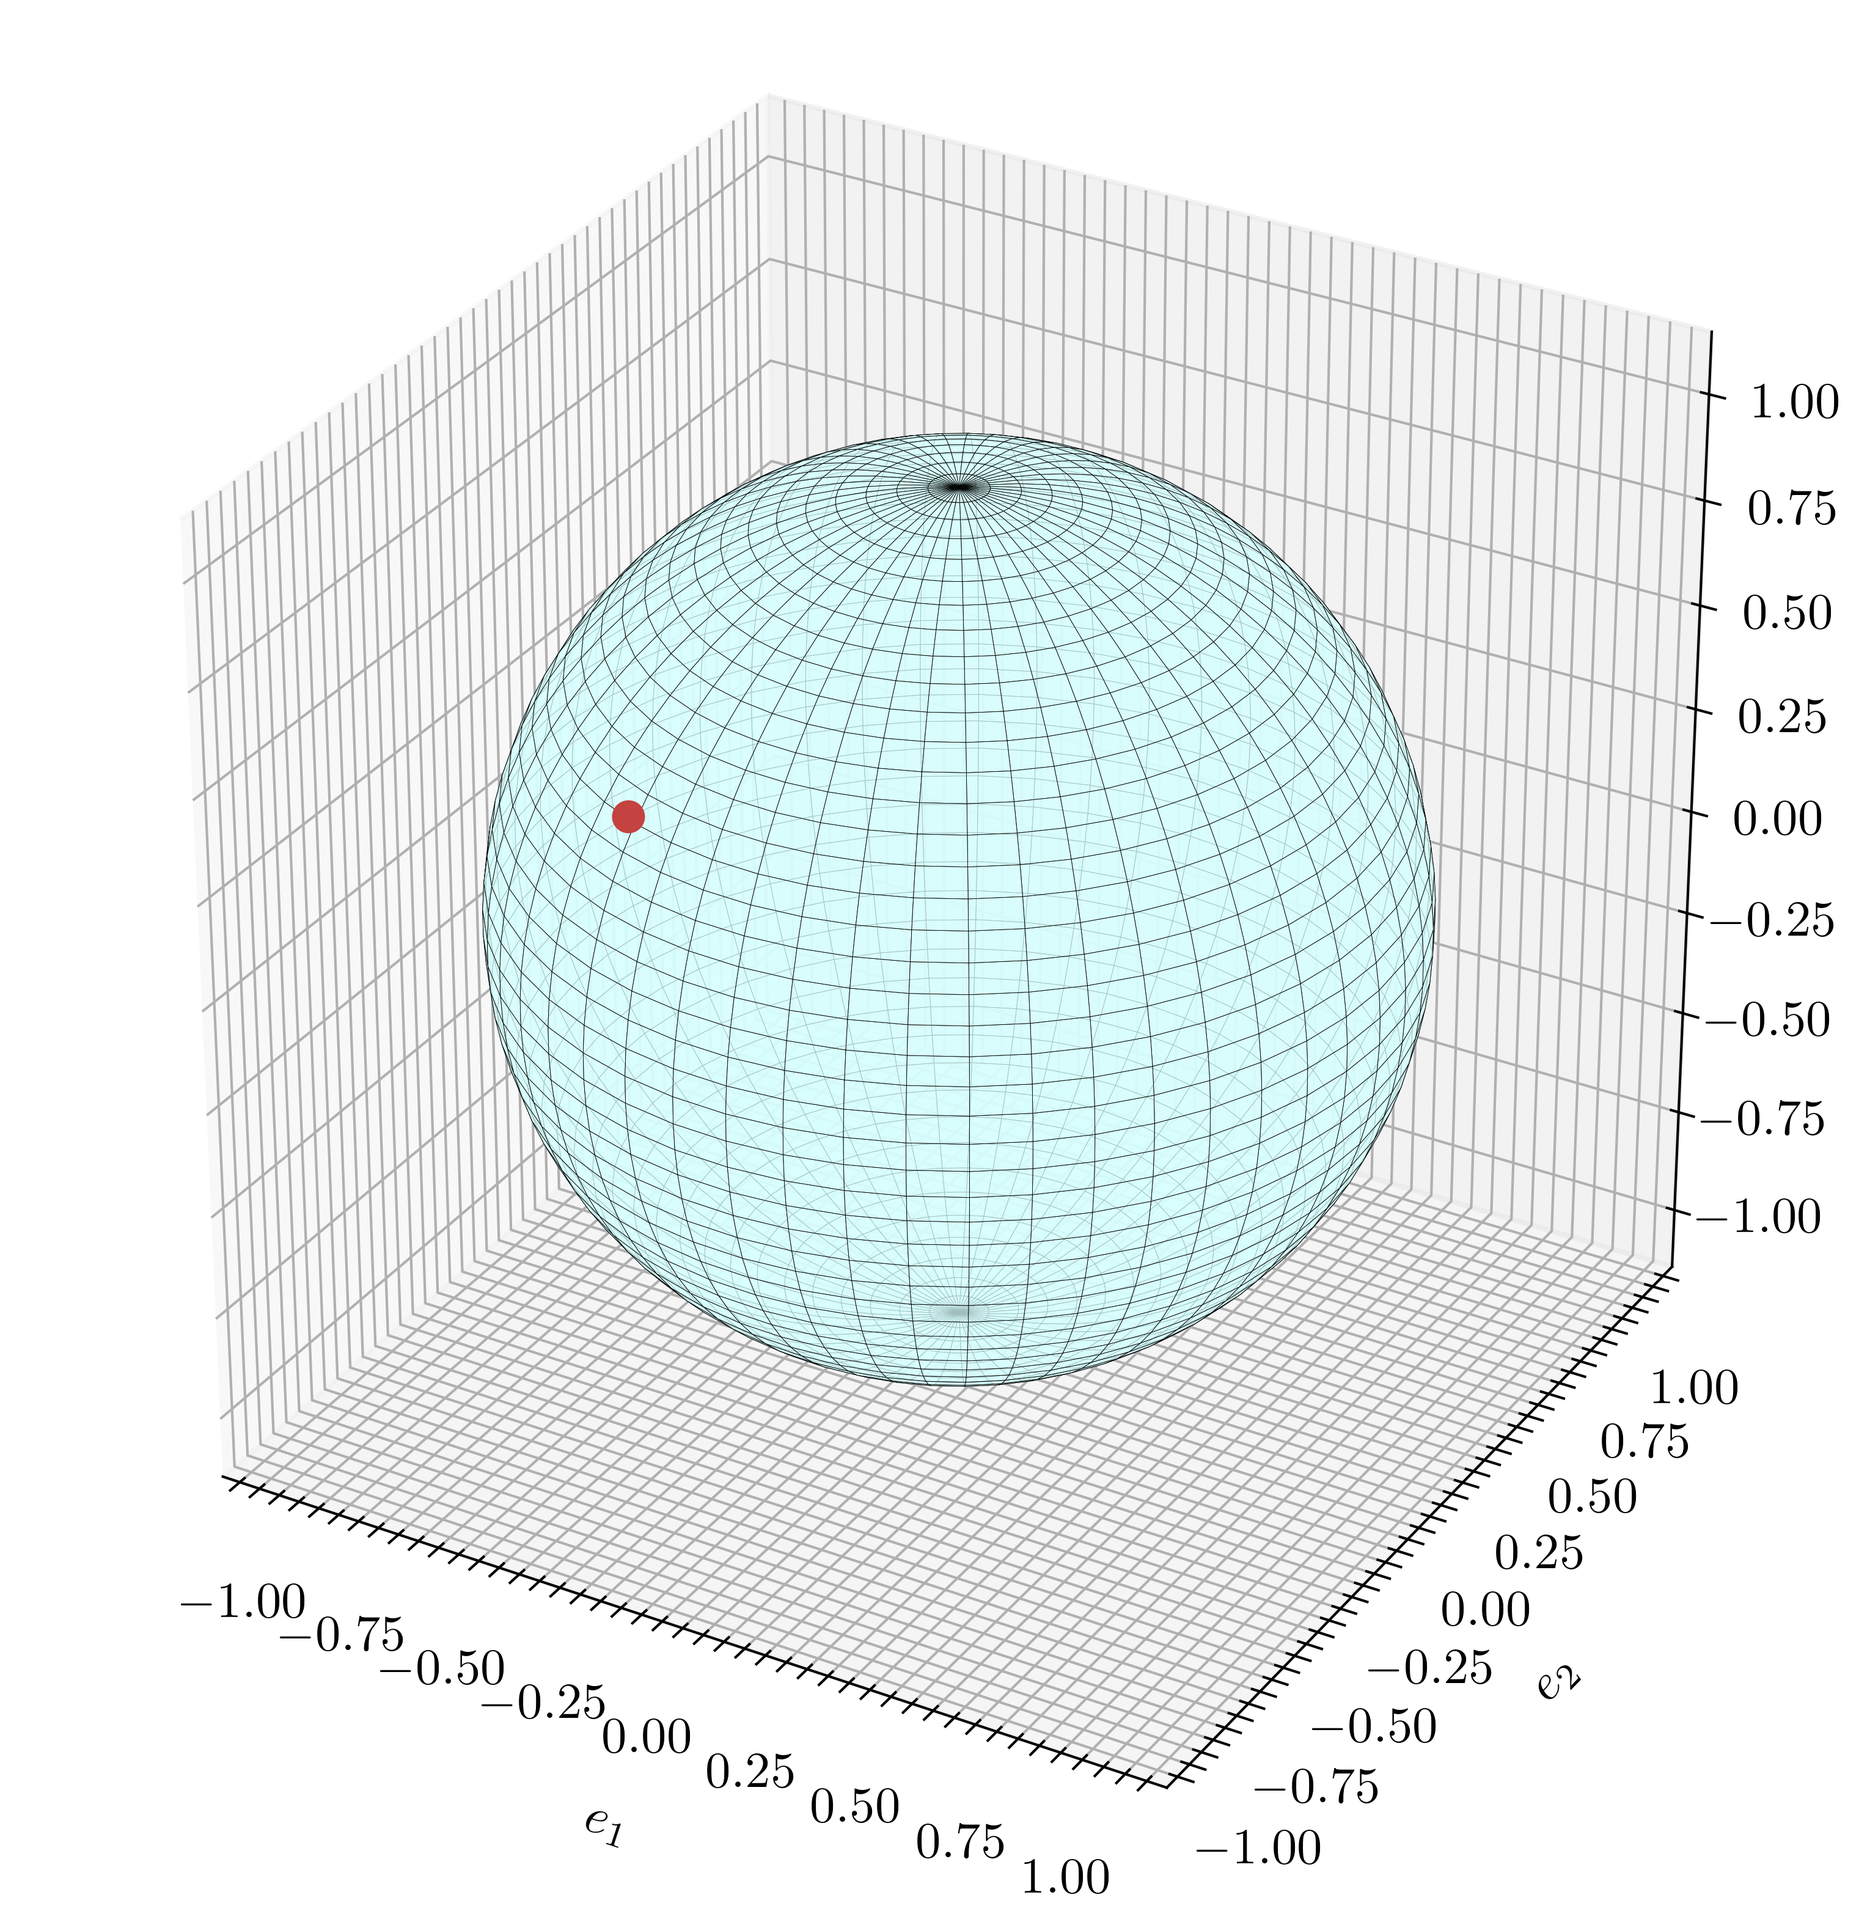
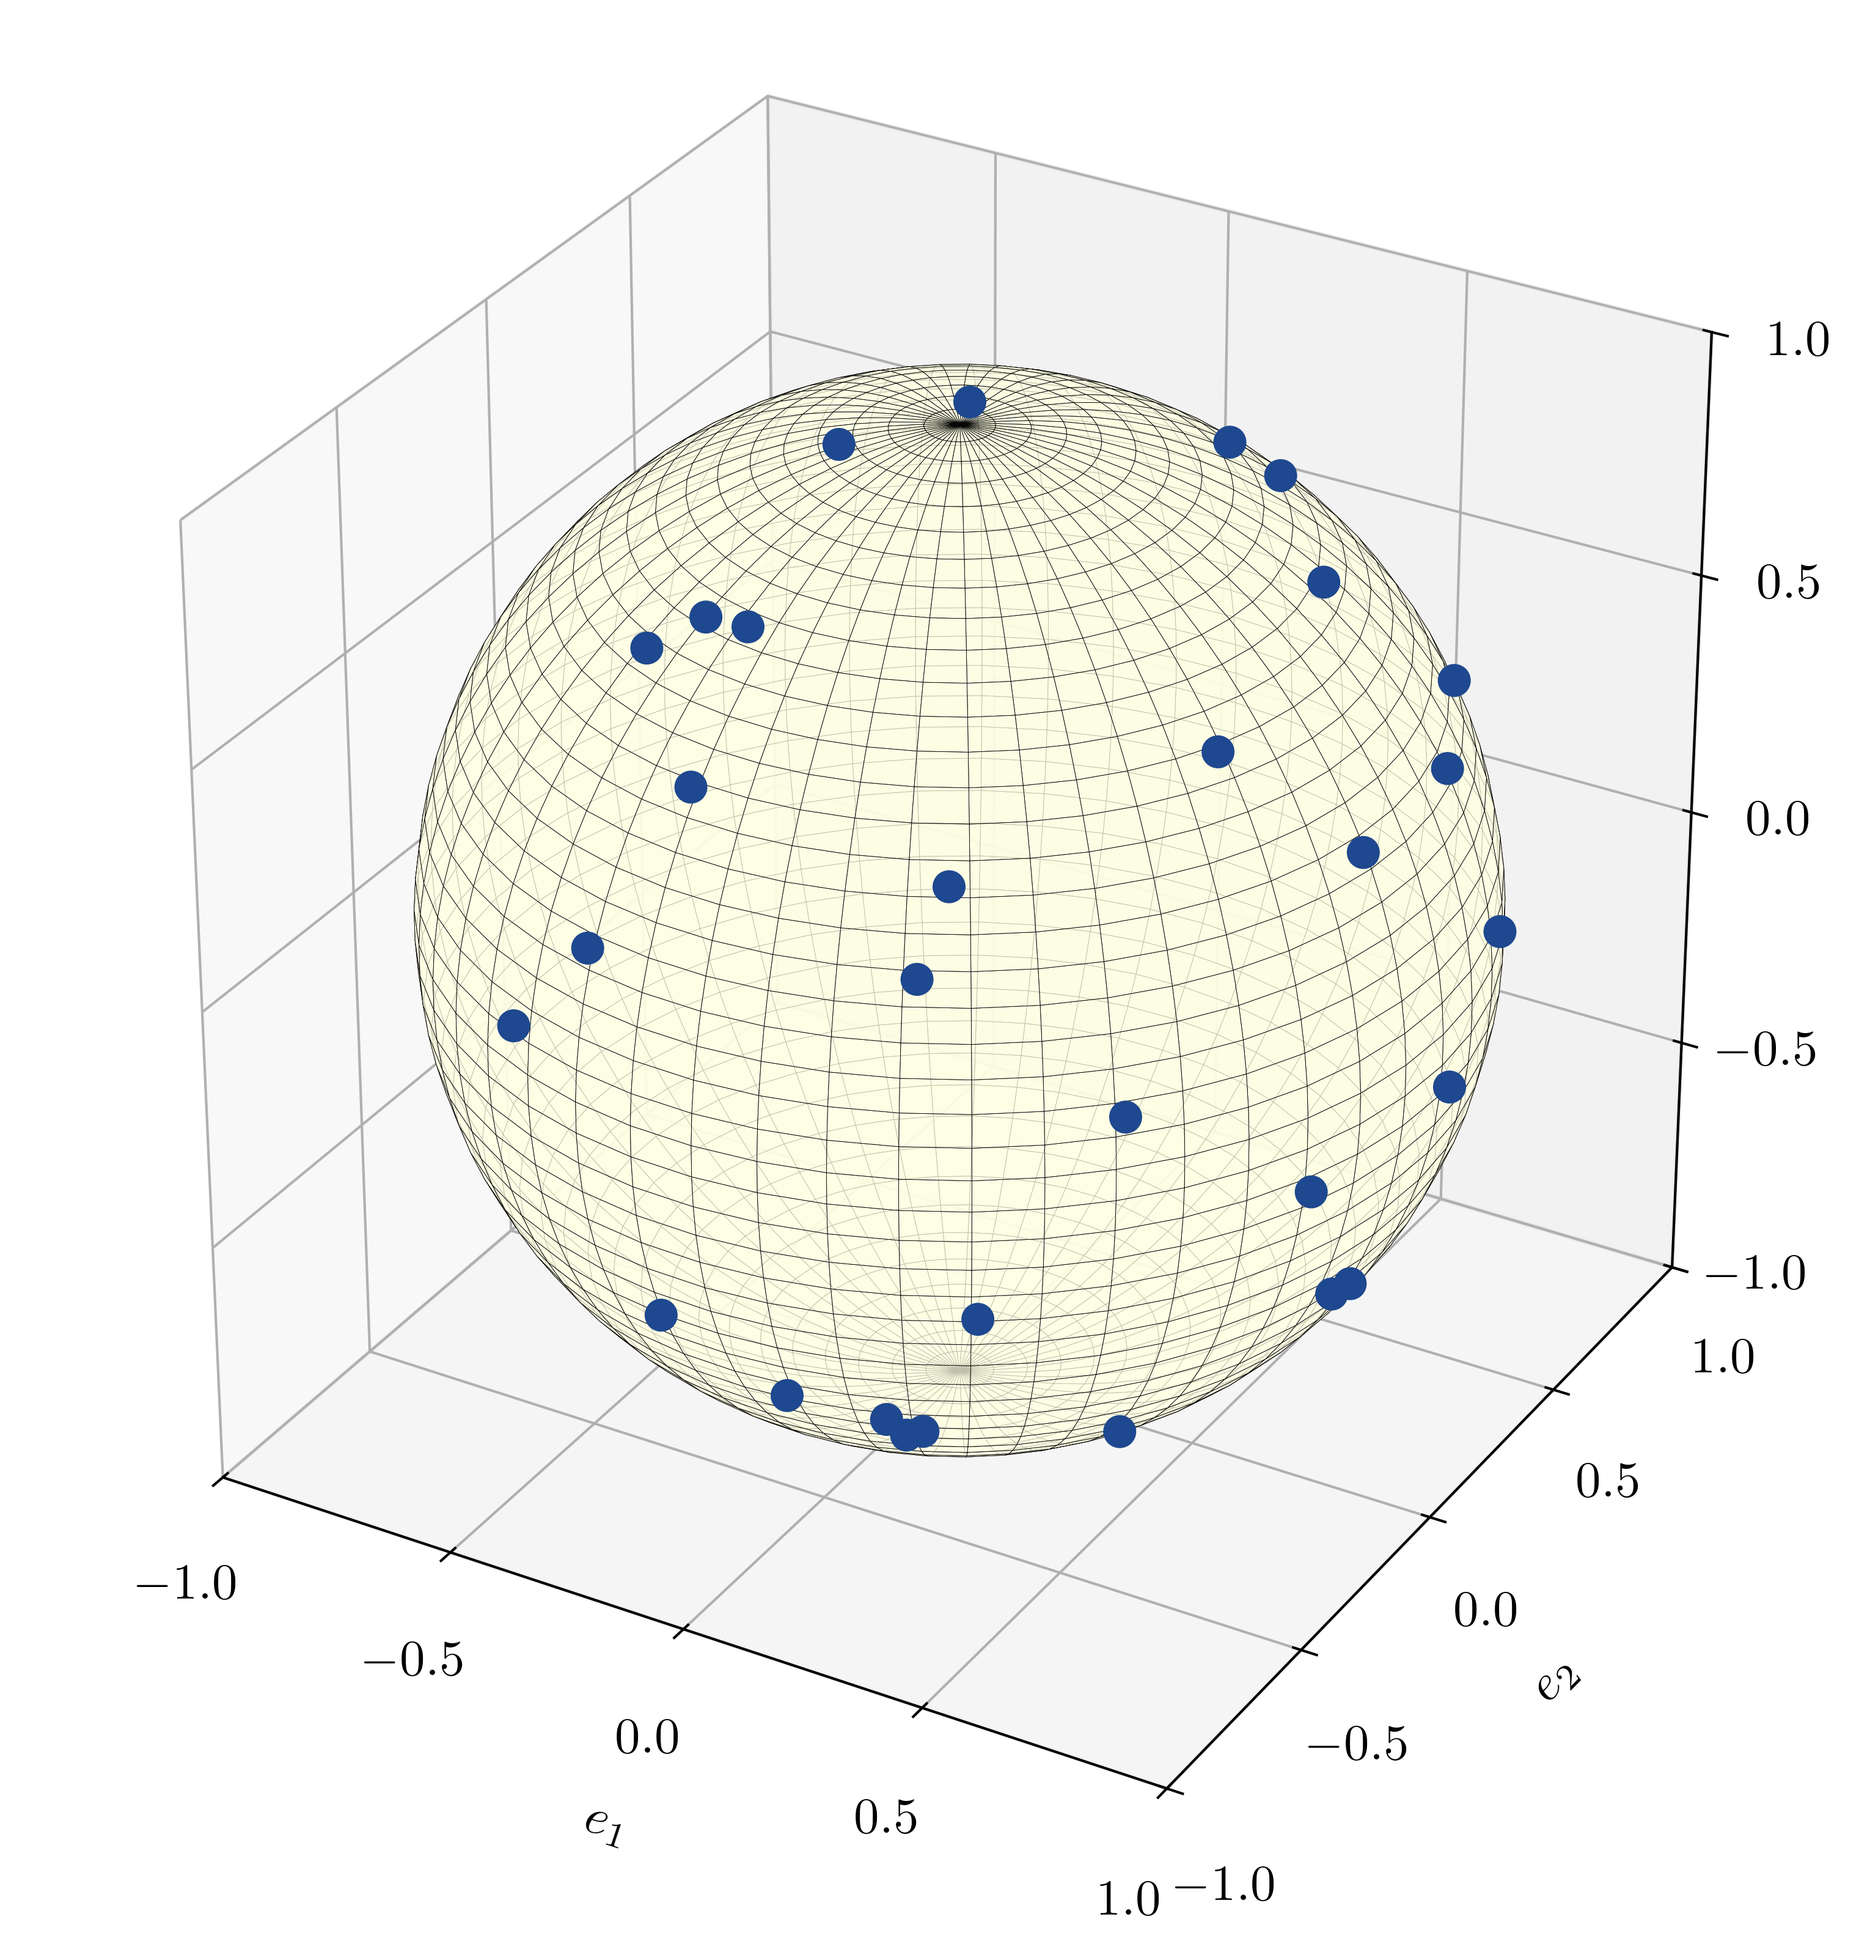
added min max

diff --git a/exps/max_on_sphere.py b/exps/max_on_sphere.py
@@ -6,7 +6,7 @@ import scienceplots
 #%%
 plt.style.use(['science'])
 
-n = 100
+n = 1
 d = 3
 kwargs = {
     'max_it': 500,
@@ -17,25 +17,28 @@ kwargs = {
     'sigma':0.
 }
 
-mode = 'Id'
+mode = 'PD'
 
 if mode == 'Id':
-    eps = 0
+    D = torch.eye(d)
 else:
-    eps = -1
+    D = torch.eye(d)
+    D[-1,-1] = 10
+    D[-2,-2] = 7.5
 
 
 #%%
-reps = 10
+reps = 30
 x_all = torch.zeros(reps, d)
 idx = -1
 for k in range(reps):
-    D = torch.eye(d)
-    D[-1,-1] = 1 - eps
+    
+    
     x = proj(torch.randn(n ,d))
     #x[..., idx] = torch.abs(x[..., idx])
     x, hist = usa_flow(D, x=x, **kwargs)
     x_all[k, :] = torch.mean(x, dim=0)
+
 
 #%%
 plt.close('all')
@@ -48,16 +51,36 @@ plt.rcParams["axes.prop_cycle"] = plt.cycler("color", plt.cm.viridis(np.linspace
 
 
 X = grid_x_sph(50**2)
-axs.plot_surface(
+XX = X.reshape(-1,d)
+
+Z = torch.exp((XX * (XX@D)).sum(axis=-1)).reshape(X.shape[:2])
+Z = (Z - Z.min())/(Z.max() - Z.min())
+
+fcolors = torch.zeros(X.shape[:2] + (4,))
+lamda = torch.clamp(Z, min=0.1)[:,:,None]
+fcolors[..., :3] = (
+    (1 - lamda) * torch.tensor([1.,1.,0.9])[None,None,:] + 
+    (lamda) * torch.tensor([123, 200, 246])[None,None,:]/255
+)
+
+#fcolors[..., :] *= torch.clamp(Z, min=0.1)[:,:,None]
+fcolors[..., 3]  = Z#torch.exp(Z-1)
+fcolors = torch.clamp(fcolors, max=1, min=0)
+
+
+sf = axs.plot_surface(
     *[X[...,i] for i in range(3)],
     shade=False,
     edgecolor='k',
+    facecolors=fcolors.numpy(),
     linewidth=0.1,
     alpha=.75,
     rstride=1, cstride=1,
-    color='xkcd:ice blue')
+    #color='xkcd:off white'
+    )
+plt.colorbar(sf)
 axs.scatter(*[x_all[:,i] for i in [0,1,2]], alpha=1, 
-            c=cm.Accent([range(reps)])[0,...],
+            c='k',
             marker='o',
             s=30
             )
@@ -65,12 +88,24 @@ axs.set_xlabel("$e_1$")
 axs.set_ylabel("$e_2$")
 axs.set_zlabel("$e_3$")
 
-axs.set_xlim([-1,1])
-axs.set_ylim([-1,1])
-axs.set_zlim([-1,1])
+# for i in range(3):
+#     axs.plot(*[[-1. * (j==i), 1. * (j==i)] for j in range(3)], 
+#              color='k', alpha=0.5)#[-2,2], [0,0],[0,0])
 
-axs.set_axis_off()
+for i in range(3): getattr(axs, 'set_' + chr(120 +i) + 'ticks')(torch.linspace(-1,1,5))
+axs.minorticks_off()
+# axs.plot([0,0], [-2,2], [0,0])
+# axs.plot([0,0],[0,0],[-2,2])
+#axs.set_axis_off()
 axs.axis('square')
+axs.set_xlim([-1.,1.])
+axs.set_ylim([-1.,1.])
+axs.set_zlim([-1.,1.])
+
+
+
+
+
 #%%
 save = False
 if save:
